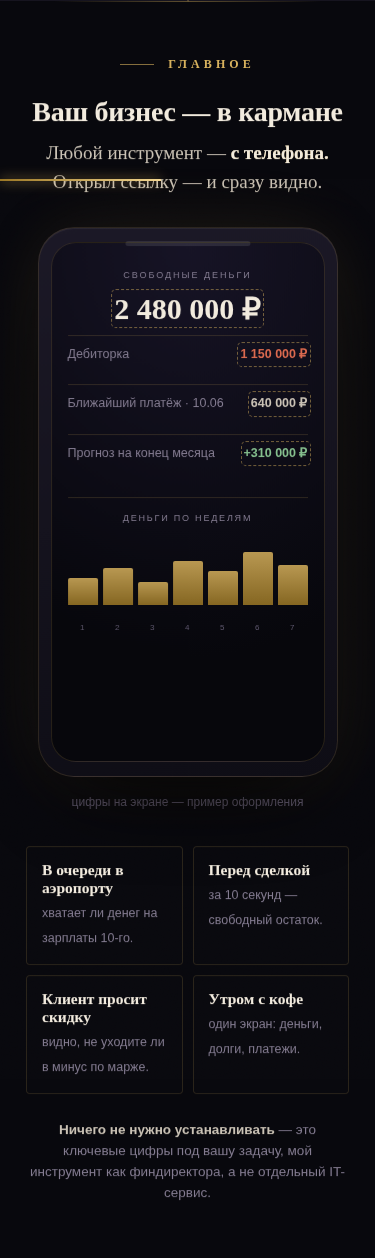
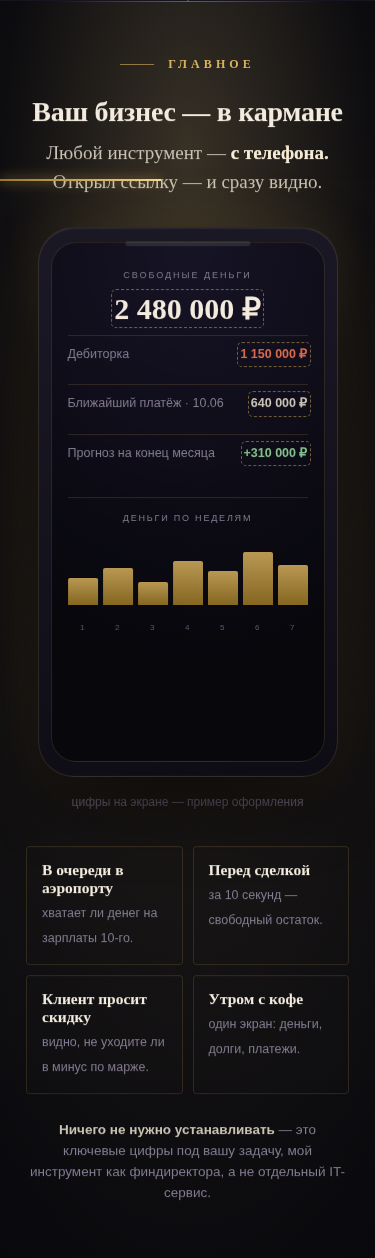
Accent the two key sections as visual peaks (gold glow on dark)
Gentle alternation alone read flat. Add two deliberate 'peaks' on top of
the existing rhythm, staying finance-noir (warm gold glow on dark, no
light backgrounds, no new colours):
- #pocket ('Ваш бизнес — в кармане') — feature climax: layered gold
  radial glow from the top behind the phone mockup.
- #final ('Посмотрим на ваши цифры вместе') — CTA peak: gold glow
  rising from the bottom around the button; also gets the ✦ top divider.
Other sections stay calm. Rhythm now reads calm → PEAK → calm → … → PEAK.
Height, tone alternation, content and order untouched.

Changed region(s): [[0.2053, 0.0, 0.792, 0.186]]

diff --git a/index.html b/index.html
@@ -42,6 +42,12 @@
     background:linear-gradient(90deg,transparent,rgba(216,178,94,.42) 50%,transparent)}
   .sep-top::before{content:"✦";position:absolute;top:-9px;left:50%;transform:translateX(-50%);
     z-index:4;color:var(--gold);font-size:12px;opacity:.7;line-height:1}
+
+  /* ===== АКЦЕНТНЫЕ СЕКЦИИ — смысловые вершины: усиленное тёплое золото на тёмном ===== */
+  .accent{background:
+    radial-gradient(82% 52% at 50% 12%,rgba(243,214,144,.16),transparent 60%),
+    radial-gradient(135% 95% at 50% 44%,rgba(216,178,94,.10),transparent 70%),
+    var(--void)}
   .gold-text{background:linear-gradient(110deg,var(--gold-bright),var(--gold) 45%,var(--gold-deep));
     -webkit-background-clip:text;background-clip:text;color:transparent}
   .kick{font-family:'Manrope';font-size:12px;font-weight:700;letter-spacing:.34em;text-transform:uppercase;
@@ -252,7 +258,7 @@
   .get span{font-size:12.5px;color:var(--muted);line-height:1.4}
 
   /* ============ В КАРМАНЕ + МОКАП ============ */
-  .pocket{background:var(--void);text-align:center}
+  .pocket{text-align:center}
   .pocket .kick{justify-content:center}
   .pocket-lead{font-family:'Playfair Display';font-size:clamp(19px,3.4vw,28px);font-weight:500;
     color:var(--cream-dim);margin-bottom:30px}
@@ -334,7 +340,10 @@
   .faq.open .faq-a{max-height:320px;padding-bottom:22px}
 
   /* ============ ФИНАЛ ============ */
-  .final{background:radial-gradient(120% 100% at 50% 100%,#1b1830,var(--void) 60%);text-align:center}
+  .final{text-align:center;background:
+    radial-gradient(88% 58% at 50% 86%,rgba(243,214,144,.17),transparent 60%),
+    radial-gradient(135% 100% at 50% 64%,rgba(216,178,94,.11),transparent 70%),
+    var(--void)}
   .final h2{font-size:clamp(32px,7vw,64px);font-weight:900;margin-bottom:18px}
   .final h2 em{font-style:italic;font-weight:500}
   .assure{display:inline-block;border:1px solid var(--line);color:var(--cream-dim);
@@ -670,7 +679,7 @@
 </section>
 
 <!-- ====== ВАШ БИЗНЕС — В КАРМАНЕ ====== -->
-<section class="pocket sep-top" id="pocket">
+<section class="pocket sep-top accent" id="pocket">
   <div class="wrap">
     <div class="kick">Главное</div>
     <h2 class="serif reveal" data-rv="up"
@@ -895,7 +904,7 @@
 </section>
 
 <!-- ====== ФИНАЛ ====== -->
-<section class="final" id="final">
+<section class="final sep-top" id="final">
   <div class="wrap narrow">
     <span class="assure reveal" data-rv="scale">
       Первый разбор бесплатный, потому что я уверена в его ценности
